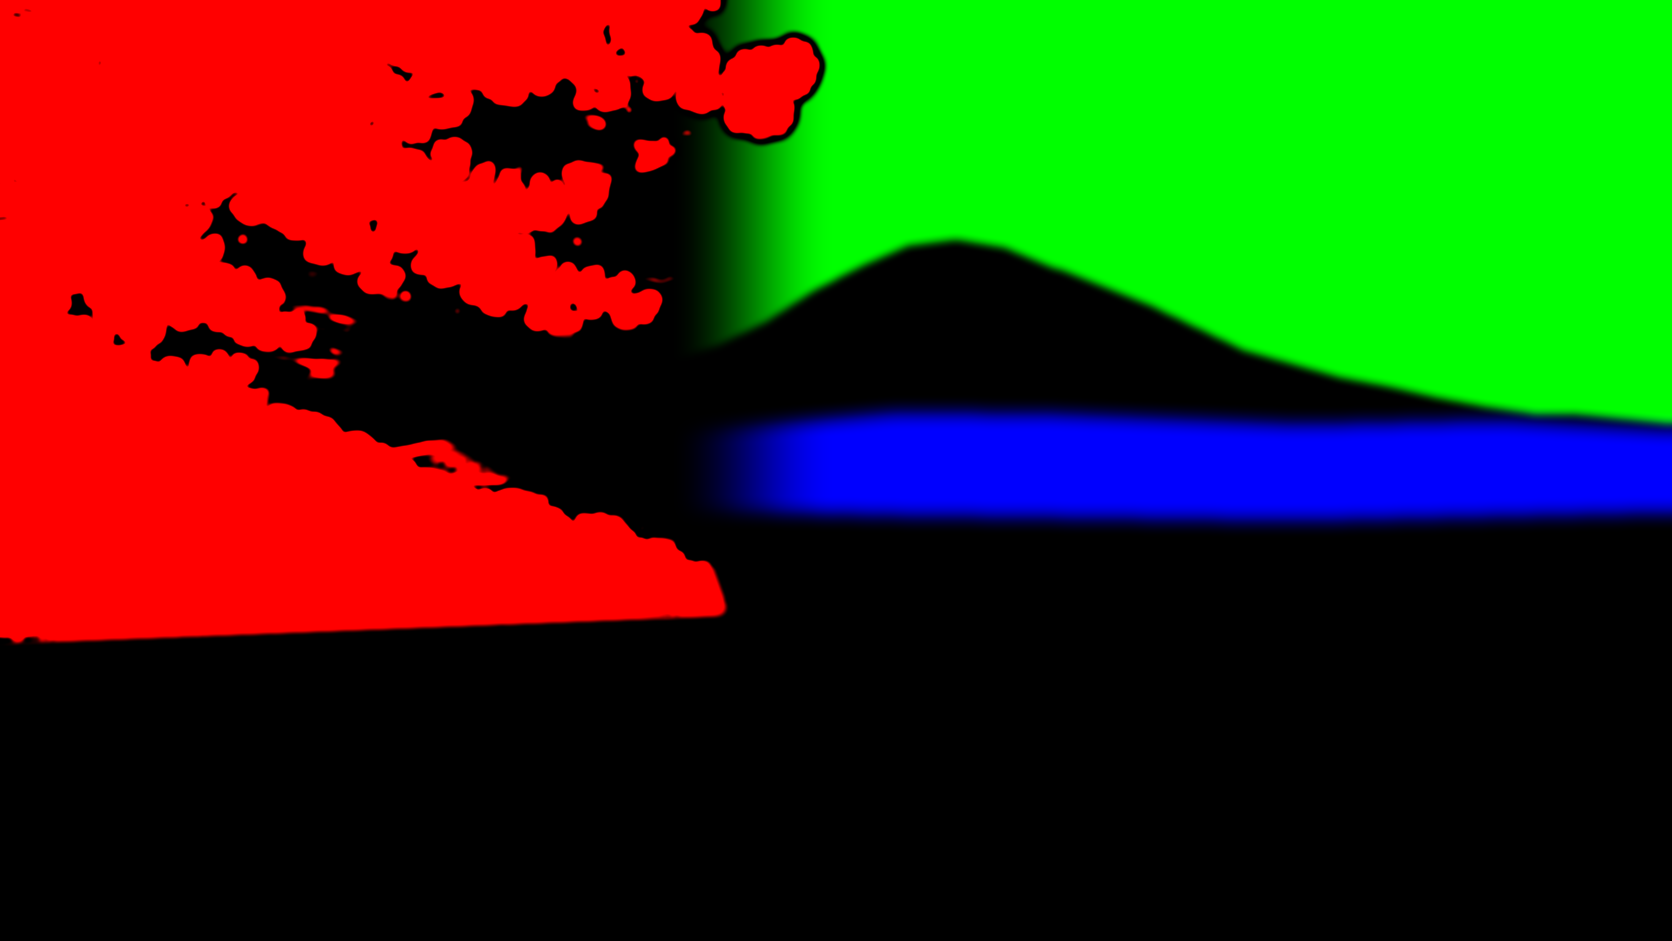
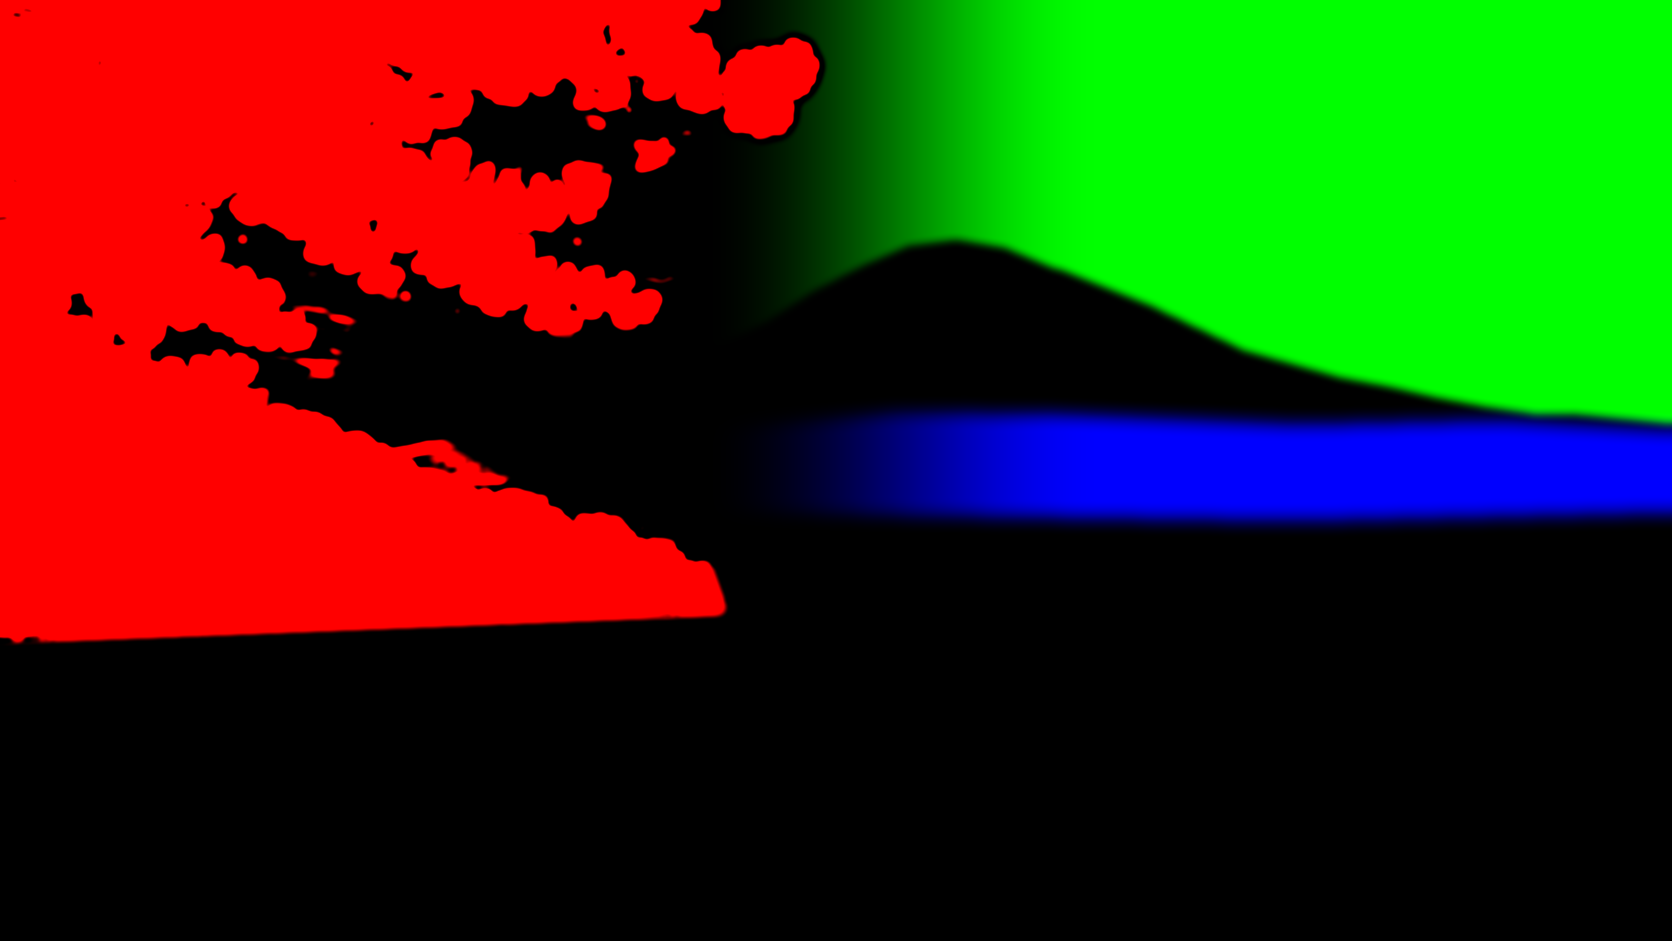
Login: thicker, more visible clouds that drift faster
Cloud detail contrast raised, billowing lit-and-shaded cloud banks and fuller mist added, drift about 2.5x faster, ghost band at the mountain's outline removed, and the edge of the drifting area feathered.

Changed region(s): [[0.4043, 0.0, 0.622, 0.3698], [0.4043, 0.4315, 0.622, 0.5547]]

diff --git a/src/components/auth/SceneCanvas.tsx b/src/components/auth/SceneCanvas.tsx
@@ -98,17 +98,37 @@ vec3 cloudsAt(vec2 u, vec3 fallback, float t){
   float mist = m.b;
   float k = max(sky, mist);
   if (k < 0.004) return fallback;
-  float spd = mix(mix(1.3, 0.65, smoothstep(0.04, 0.46, u.y)), 0.4, mist);
-  float T = 80.0;
+  float spd = mix(mix(1.3, 0.65, smoothstep(0.04, 0.46, u.y)), 0.45, mist);
+  float T = 45.0;
   float a = fract(t / T);
   float b = fract(t / T + 0.5);
   float w0 = 1.0 - abs(2.0 * a - 1.0);
   vec2 dir = vec2(1.0, 0.025);
-  float D = 0.13 * spd;
-  vec2 wob = (vec2(fbm(u * 3.0 + vec2(t * 0.012, 0.0)), fbm(u * 3.0 + vec2(5.0, -t * 0.014))) - 0.5) * 0.024;
+  float D = 0.19 * spd;
+  vec2 wob = (vec2(fbm(u * 3.0 + vec2(t * 0.016, 0.0)), fbm(u * 3.0 + vec2(5.0, -t * 0.018))) - 0.5) * 0.03;
   vec3 d0 = (texture2D(uCloud, clamp(u - dir * D * a + wob, 0.0, 1.0)).rgb - 0.5) * 0.8;
   vec3 d1 = (texture2D(uCloud, clamp(u - dir * D * b + wob, 0.0, 1.0)).rgb - 0.5) * 0.8;
-  vec3 col = texture2D(uBase, u).rgb + mix(d1, d0, w0);
+  vec3 base = texture2D(uBase, u).rgb;
+  // The picture's own clouds, with their contrast raised so they stand out from the sky.
+  vec3 col = base + mix(d1, d0, w0) * mix(1.9, 1.5, mist);
+
+  // Thicker, softer cloud added on top: billowing banks that drift and slowly change shape, lit warm on the side toward the sunset and
+  // shaded cool underneath, so they read as real volume. Strongest in the sunset side of the sky, fainter in the deep blue.
+  float x = u.x * IA;
+  vec2 q = vec2(x * 2.1 - t * 0.011 * spd, u.y * 5.2);
+  float c1 = fbm(q + vec2(3.0, 1.0) + 0.35 * vec2(fbm(q * 0.6 + t * 0.004), fbm(q * 0.6 + 9.0 - t * 0.004)));
+  float c2 = fbm(vec2(x * 4.4 - t * 0.017 * spd, u.y * 10.0) + vec2(11.0, 5.0));
+  float dens = smoothstep(0.46, 0.74, c1) * (0.65 + 0.55 * c2);
+  float lit = fbm(q + vec2(3.0, 1.0) + vec2(-0.06, 0.1)) - c1;
+  float high = 1.0 - smoothstep(0.05, 0.4, u.y);
+  vec3 lightC = mix(vec3(1.0, 0.86, 0.9), vec3(1.0, 0.93, 0.95), high);
+  vec3 shadeC = mix(vec3(0.5, 0.42, 0.7), vec3(0.4, 0.4, 0.72), high);
+  vec3 cc = mix(shadeC, lightC, clamp(0.55 + lit * 5.0, 0.0, 1.0));
+  float amt = dens * mix(0.5, 0.7, smoothstep(0.35, 0.8, u.x)) * (0.45 + 0.55 * (1.0 - smoothstep(0.0, 0.5, u.y)));
+  col = mix(col, cc, clamp(amt * 0.78, 0.0, 0.85) * sky);
+  // The mist round the mountain's foot: fuller, whiter, flowing.
+  float mc = fbm(vec2(x * 3.0 - t * 0.008 * spd, u.y * 14.0) + vec2(2.0, 7.0));
+  col = mix(col, vec3(0.97, 0.86, 0.94), smoothstep(0.4, 0.7, mc) * 0.42 * mist);
   return mix(fallback, col, k);
 }
 
